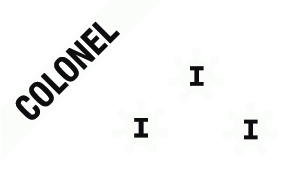
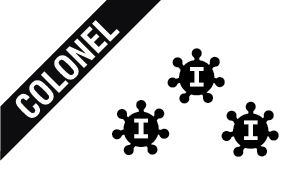
Changed Pics

diff --git a/Assets/Scripts/Pieces/PieceManager.cs b/Assets/Scripts/Pieces/PieceManager.cs
@@ -85,8 +85,8 @@ public class PieceManager : MonoBehaviour
 
     public void Setup(Board board)
     {
-        whitePieces = CreatePieces(Color.white, new Color32(80, 124, 159, 255), board);
-        blackPieces = CreatePieces(Color.black, new Color32(210, 95, 64, 255), board);
+        whitePieces = CreatePieces(Color.white, new Color32(255, 255, 255, 255), board);
+        blackPieces = CreatePieces(Color.black, new Color32(255, 255, 255, 255), board);
 
         PlacePieces(0, 3, whitePieces, board);
         PlacePieces(5, 8, blackPieces, board);
@@ -109,7 +109,7 @@ public class PieceManager : MonoBehaviour
 
             PieceType key = pieceOrder[i];
             BasePiece newPiece = newPieceObject.GetComponent<BasePiece>();
-            Image pieceImg = newPieceObject.GetComponentInChildren<Image>();
+            Image pieceImg = newPieceObject.GetComponent<Image>();
             newPiece.rank = pieceRanks[key];
             newPiece.pieceType = key;
             AssignSprite(teamColor, newPiece.pieceType, pieceImg);

diff --git a/Assets/Scripts/GameManager.cs b/Assets/Scripts/GameManager.cs
@@ -4,6 +4,7 @@ using UnityEngine;
 
 public class GameManager : MonoBehaviour
 {
+    static bool pregame = true;
     public Board board;
     public PieceManager pieceManager;
 
